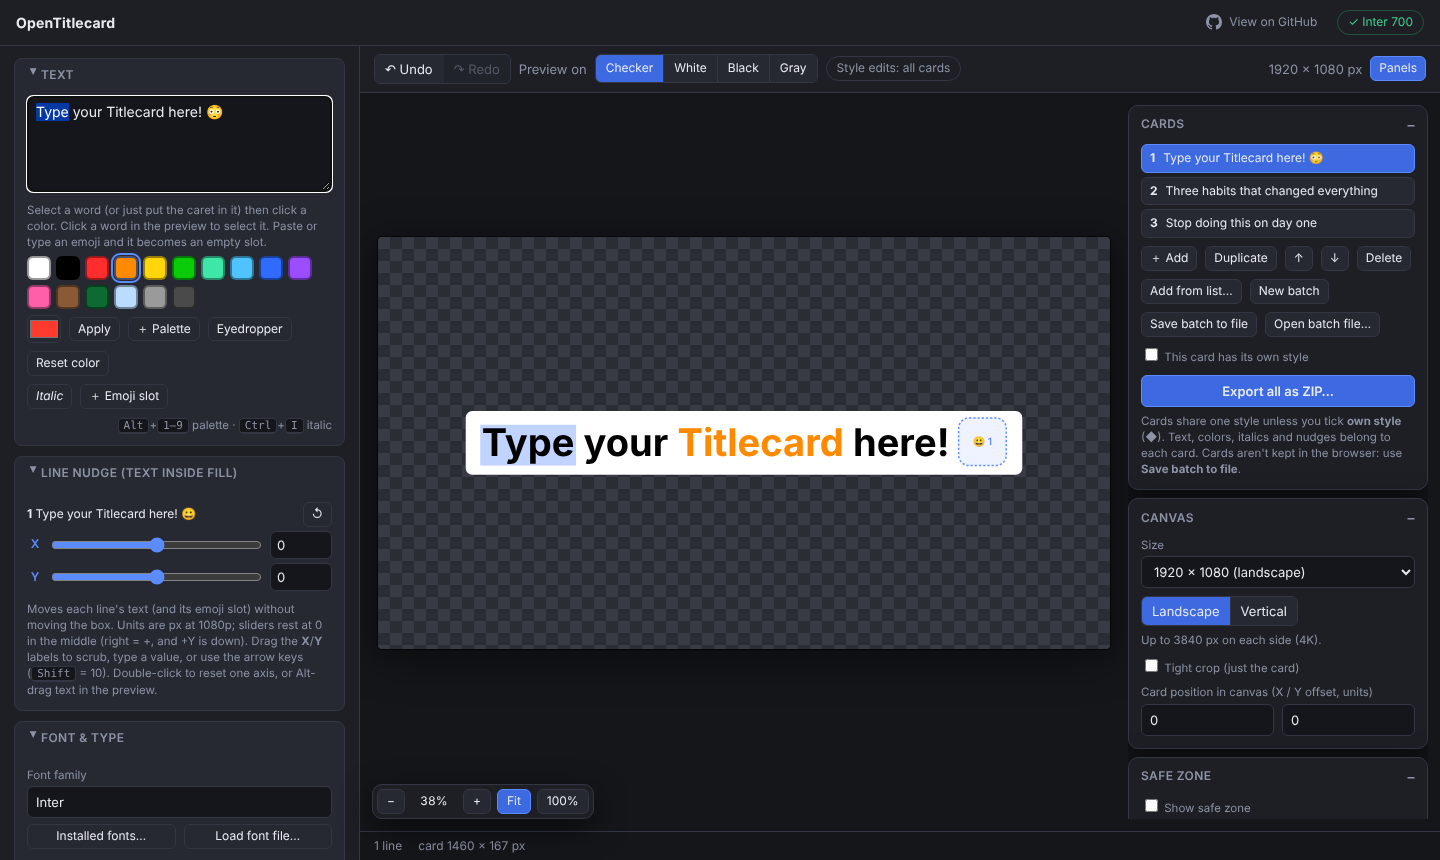
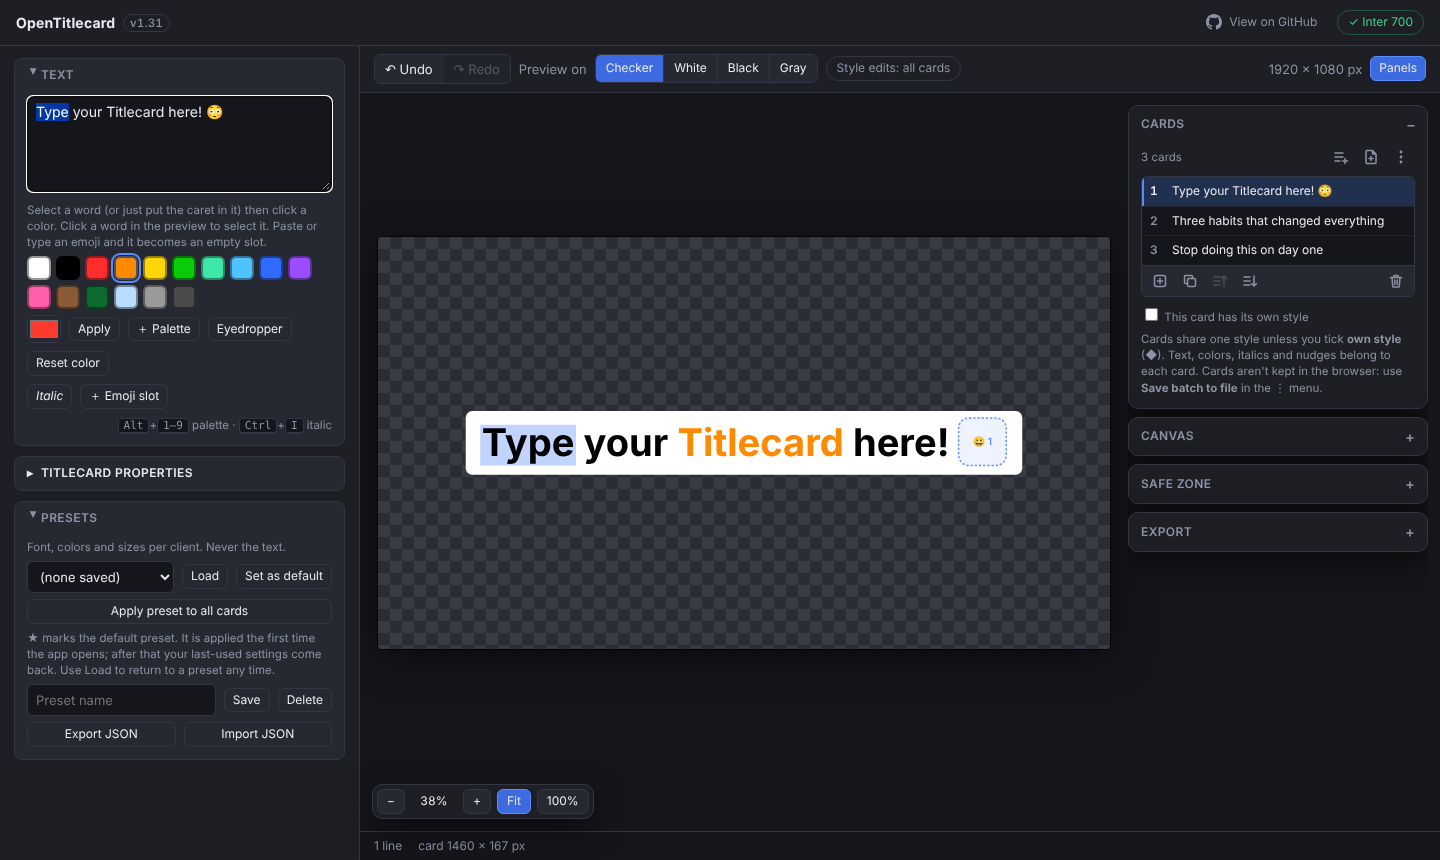
Show the version (v1.31) in the header and start a changelog
The version sits next to the name and links to CHANGELOG.md. package.json,
the header and the newest changelog entry are kept in step by a test. Also
refreshes the README screenshot for the new layout.

Claude-Session: https://claude.ai/code/session_012XjoQm9RJtXQMBXAEAEWfC

diff --git a/index.html b/index.html
@@ -15,6 +15,9 @@
   body{margin:0;background:var(--bg);color:var(--text);font:13px/1.4 system-ui,-apple-system,"Segoe UI",Roboto,sans-serif;overflow:hidden}
   header{display:flex;align-items:center;gap:12px;padding:10px 16px;border-bottom:1px solid var(--line);background:var(--panel)}
   header h1{font-size:14px;margin:0;font-weight:650;letter-spacing:.2px}
+  #appVersion{margin-left:4px;font-size:11.5px;font-weight:500;color:var(--mute);text-decoration:none;font-variant-numeric:tabular-nums;padding:1px 6px;border:1px solid var(--line);border-radius:99px;vertical-align:1px}
+  #appVersion:hover{color:var(--text);border-color:#4a5066}
+  #appVersion:focus-visible{outline:2px solid var(--accent);outline-offset:2px}
   header .gh{margin-left:auto;display:inline-flex;align-items:center;gap:7px;color:var(--mute);font-size:12px;text-decoration:none;padding:3px 8px;border-radius:6px}
   header .gh:hover{color:var(--text);background:var(--panel2)}
   header .gh:focus-visible{outline:2px solid var(--accent);outline-offset:2px}
@@ -159,7 +162,7 @@
 </head>
 <body>
 <header>
-  <h1>OpenTitlecard</h1>
+  <h1>OpenTitlecard <a id="appVersion" href="https://github.com/wishym1shy/opentitlecard/blob/main/CHANGELOG.md" target="_blank" rel="noopener noreferrer" title="What's new in this version (changelog on GitHub)">v1.31</a></h1>
   <a class="gh" href="https://github.com/wishym1shy/opentitlecard" target="_blank" rel="noopener noreferrer" title="View the source on GitHub">
     <svg viewBox="0 0 16 16" aria-hidden="true"><path d="M8 0C3.58 0 0 3.58 0 8c0 3.54 2.29 6.53 5.47 7.59.4.07.55-.17.55-.38 0-.19-.01-.82-.01-1.49-2.01.37-2.53-.49-2.69-.94-.09-.23-.48-.94-.82-1.13-.28-.15-.68-.52-.01-.53.63-.01 1.08.58 1.23.82.72 1.21 1.87.87 2.33.66.07-.52.28-.87.51-1.07-1.78-.2-3.64-.89-3.64-3.95 0-.87.31-1.59.82-2.15-.08-.2-.36-1.02.08-2.12 0 0 .67-.21 2.2.82a7.6 7.6 0 0 1 4 0c1.53-1.04 2.2-.82 2.2-.82.44 1.1.16 1.92.08 2.12.51.56.82 1.27.82 2.15 0 3.07-1.87 3.75-3.65 3.95.29.25.54.73.54 1.48 0 1.07-.01 1.93-.01 2.2 0 .21.15.46.55.38A8.01 8.01 0 0 0 16 8c0-4.42-3.58-8-8-8Z"/></svg>
     <span>View on GitHub</span>

diff --git a/tests/version.spec.js b/tests/version.spec.js
@@ -1,0 +1,28 @@
+const fs = require('fs');
+const path = require('path');
+const { test, expect } = require('./helpers');
+
+// One version, three places: package.json (x.y.0), the header and the newest CHANGELOG.md entry.
+const root = path.join(__dirname, '..');
+const pkg = JSON.parse(fs.readFileSync(path.join(root, 'package.json'), 'utf8'));
+const changelog = fs.readFileSync(path.join(root, 'CHANGELOG.md'), 'utf8');
+
+test.describe('version', () => {
+  test('package.json, the header and the changelog agree', async ({ app: { page } }) => {
+    const m = /^(\d+)\.(\d+)\.0$/.exec(pkg.version);
+    expect(m, 'package.json version is MAJOR.MINOR.0').not.toBeNull();
+    const v = `v${m[1]}.${m[2]}`;
+    await expect(page.locator('header h1 #appVersion')).toHaveText(v);
+    const newest = /^## (v\S+)/m.exec(changelog);
+    expect(newest && newest[1], 'newest CHANGELOG.md entry').toBe(v);
+  });
+
+  test('the version sits next to the name and links to the changelog', async ({ app: { page } }) => {
+    const ver = page.locator('#appVersion');
+    await expect(ver).toHaveAttribute('href', /CHANGELOG\.md$/);
+    await expect(ver).toHaveAttribute('target', '_blank');
+    const [h, b] = await Promise.all([page.locator('header h1').boundingBox(), ver.boundingBox()]);
+    expect(b.x).toBeLessThan(300); // top left, with the name
+    expect(b.y).toBeGreaterThanOrEqual(h.y - 2);
+  });
+});

diff --git a/CLAUDE.md b/CLAUDE.md
@@ -9,6 +9,7 @@ Read this first. It describes the app, the rules for changing it, and how to wor
 - **One file:** `index.html` holds all markup, CSS and JS. Keep it that way. No bundler, no framework, no CDN or network requests.
 - `docs/screenshot.png` is the README image. Regenerate it only when the UI visibly changes.
 - `LICENSE` is MIT.
+- `CHANGELOG.md` lists what changed per version, newest first.
 - **Name:** the project was called `opentok-titlecard` until the rename. Storage keys are `opentitlecard.*`; `index.html` copies any old `opentok.*` values over once (see `migrateOldKeys`). Keep that migration. "OpenTok" is an unrelated, established product, so don't reintroduce the name.
 
 ## Product context (why it is built this way)
@@ -29,13 +30,14 @@ Tooling note: in Claude Code web sessions `gh pr create` fails because GraphQL i
 3. **Never merge, approve, or enable auto-merge.** The maintainer reviews and merges every PR, personally. Your job ends at an open PR with green CI.
 4. Never force-push, rewrite published history, or delete branches unless asked.
 5. Keep commits small and focused, with clear messages. One concern per branch.
-6. Don't commit test output (`test-results/`, `playwright-report/`), scratch scripts, downloaded fonts or exported PNGs. Anything under `docs/` must be intentional.
+6. **Versioning (maintainer decision):** versions are `vMAJOR.MINOR`, and every PR that changes the app adds one to the minor number (v1.31 → v1.32). In the same PR: bump `package.json` and the root entries in `package-lock.json` to `MAJOR.MINOR.0`, update `#appVersion` in the header, and add a `## vMAJOR.MINOR` entry at the top of `CHANGELOG.md` (Added / Changed / Fixed, written for users). `tests/version.spec.js` fails if the three disagree. Docs-, test- or CI-only PRs don't bump. If two PRs are open at once, the one merged second takes the next number when it is updated.
+7. Don't commit test output (`test-results/`, `playwright-report/`), scratch scripts, downloaded fonts or exported PNGs. Anything under `docs/` must be intentional.
 
 ## CI
 
 GitHub Actions (`.github/workflows/ci.yml`) runs the Playwright suite in headless Chromium on every pull request and every push to `main`. A PR is only ready when CI is green. The maintainer still reviews and merges.
 
-- Tests live in `tests/`: `app.spec.js` (loading, fonts, emoji slots, colour/italic, preview interaction, nudge), `geometry.spec.js` (box rules, descender clearance regression), `wrap.spec.js` (auto-wrap), `nudge-sliders.spec.js` (X/Y nudge sliders), `export.spec.js` (PNG output), `storage-and-presets.spec.js`, `batch.spec.js` (cards, file names, ZIP writer, export dialog), `card-styles.spec.js` (per-card styles, apply preset to all), `batch-file.spec.js` (save/open batch files, untrusted input, no card persistence), `export-dialog.spec.js` (canvas and preset controls in the dialog), `default-font.spec.js` (the bundled default Inter, without loading the test font), `style-controls.spec.js` (slider reset buttons, stretch/squish), `undo.spec.js` (undo/redo), `canvas.spec.js` (orientation, 4K limit), `panels.spec.js` (floating panels, Titlecard Properties, first-open layout), `cards-panel.spec.js` (the Cards layers list, icons and ⋮ menu), `zoom.spec.js` (zoom and pan), `safezone.spec.js` (safe zone overlay).
+- Tests live in `tests/`: `app.spec.js` (loading, fonts, emoji slots, colour/italic, preview interaction, nudge), `geometry.spec.js` (box rules, descender clearance regression), `wrap.spec.js` (auto-wrap), `nudge-sliders.spec.js` (X/Y nudge sliders), `export.spec.js` (PNG output), `storage-and-presets.spec.js`, `batch.spec.js` (cards, file names, ZIP writer, export dialog), `card-styles.spec.js` (per-card styles, apply preset to all), `batch-file.spec.js` (save/open batch files, untrusted input, no card persistence), `export-dialog.spec.js` (canvas and preset controls in the dialog), `default-font.spec.js` (the bundled default Inter, without loading the test font), `style-controls.spec.js` (slider reset buttons, stretch/squish), `undo.spec.js` (undo/redo), `canvas.spec.js` (orientation, 4K limit), `panels.spec.js` (floating panels, Titlecard Properties, first-open layout), `cards-panel.spec.js` (the Cards layers list, icons and ⋮ menu), `version.spec.js` (version in package.json, header and changelog agree), `zoom.spec.js` (zoom and pan), `safezone.spec.js` (safe zone overlay).
 - `tests/helpers.js` has the shared fixture. It opens the app, loads the pinned Inter font through the app's own **Load font file…** input, and fails any test that logs a page error, console error or dialog.
 - Dependencies are **dev-only** (`@playwright/test`, `@fontsource/inter`), pinned exactly, with `package-lock.json` committed. The app has no runtime dependencies. Don't add any.
 - Keep `window.__tt` (state `S`, layout `L`, `render`, `renderNow`, `exportGeometry`, `draw`, and the batch helpers `cards`, `active`, `batchNames`, `zipStem`, `crc32`, `buildZip`, plus `undo`, `redo`, `history`, `view` and `safezone`) stable. The tests depend on it. If you must change it, update the tests in the same branch.

diff --git a/CHANGELOG.md b/CHANGELOG.md
@@ -1,0 +1,35 @@
+# Changelog
+
+What changed in OpenTitlecard, newest first. The version is shown next to the app's name in the header.
+
+Versions are `vMAJOR.MINOR`. Each merged pull request that changes the app adds one to the minor number (v1.31 → v1.32 → …). The changelog started at v1.31: v1.27 stands for everything merged before the UI review that led to v1.28–v1.31 (pull requests up to #31), so the numbers line up with the work done.
+
+## v1.31
+
+### Added
+- The version number, next to the app's name at the top left. It links to this changelog.
+- This changelog.
+
+## v1.30
+
+### Changed
+- **Export all as ZIP…** moved from the Cards panel to the Export panel, under **Download PNG**. The Export panel's second button for the same dialog (*All cards (ZIP)…*) is gone, so there is one button for it.
+
+## v1.29
+
+### Changed
+- The Cards panel works like a layers panel: the cards sit in a list box, with the card actions as icons in its footer (add, duplicate, move up, move down, delete). **Add from list** and **New batch** are icons above the list, and **Save batch to file** and **Open batch file…** are in a **⋮** menu next to them.
+- Up/Down in the card list select the previous or next card.
+
+### Fixed
+- Clicking a card no longer drops the keyboard focus from the list.
+
+## v1.28
+
+### Changed
+- New **Titlecard Properties** section in the sidebar, folded when the page opens. It holds **Position** (the card's place in the canvas, moved from the Canvas panel), **Text Position** (was *Line nudge*), **Text Settings** (was *Font & type*), **Background** and **Emoji Slot**. Only **Text** and **Presets** stay outside it.
+- Every visit starts with only the Cards panel open; Canvas, Safe zone and Export start minimized. Hiding all the panels with **Panels** is still remembered.
+
+## v1.27 and earlier
+
+Before the changelog. Highlights: per-word color and italic, emoji slots, the bundled Inter font, auto-wrap, stretch and squish, line nudges, presets, batches of cards with ZIP export and batch files, undo and redo, floating panels, zoom and pan, and the safe zone overlay. See the [merged pull requests](https://github.com/wishym1shy/opentitlecard/pulls?q=is%3Apr+is%3Amerged) for the details.

diff --git a/README.md b/README.md
@@ -42,6 +42,9 @@ OpenTitlecard fixes each of those. Emoji are handled as an empty, correctly-size
 
 ## Layout
 
+The version is shown next to the name at the top left; see [CHANGELOG.md](CHANGELOG.md) for what changed in each one.
+
+
 The design controls are on the left: **Text** at the top, **Presets** at the bottom, and everything about the card's look in between under **Titlecard Properties** (Position, Text Position, Text Settings, Background, Emoji Slot), folded when the page opens. **Cards**, **Canvas**, **Safe zone** and **Export** float on the right of the preview: click a panel's title to minimize or expand it (every visit starts with only Cards open), or use **Panels** in the toolbar to hide them all and give the preview the whole width. The app remembers whether the panels are hidden.
 
 **Zoom and pan:** **Ctrl+scroll** (⌘+scroll on a Mac, or pinch on a trackpad) zooms around the cursor; scroll to move around, **Shift+scroll** sideways, or drag with **Space** held or the middle mouse button. The zoom bar at the bottom-left of the preview has −/+, **Fit** and **100%** (actual size); **Ctrl+=**, **Ctrl+−** and **Ctrl+0** do the same. 100% shows one canvas pixel per screen pixel, so past that you see the real export pixels.
